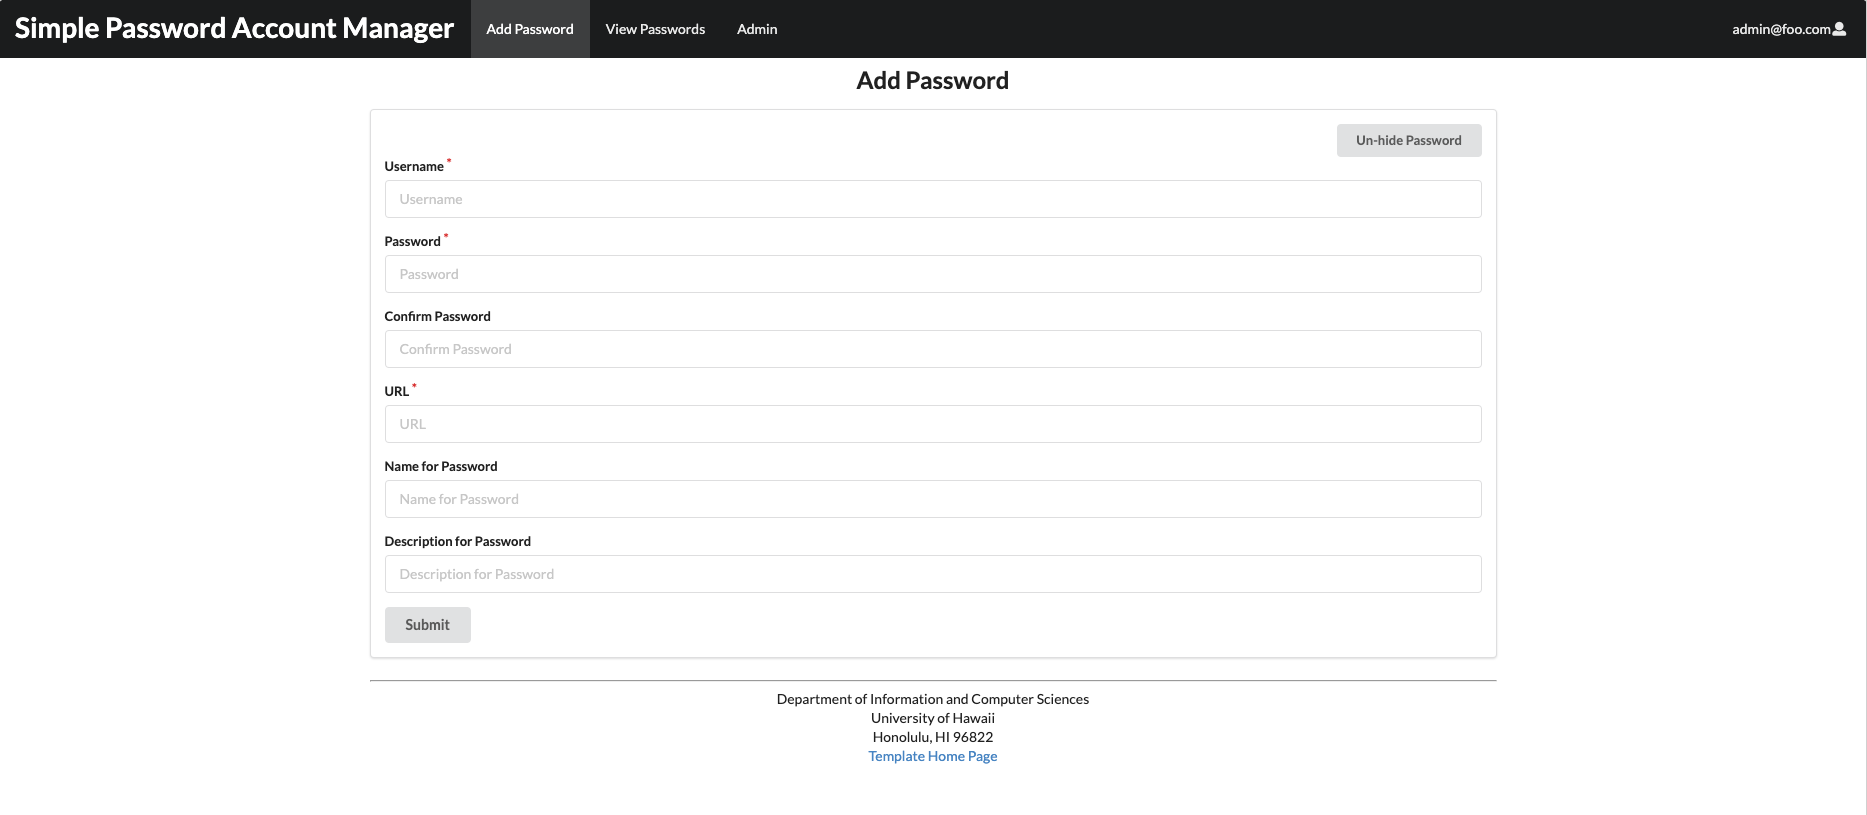
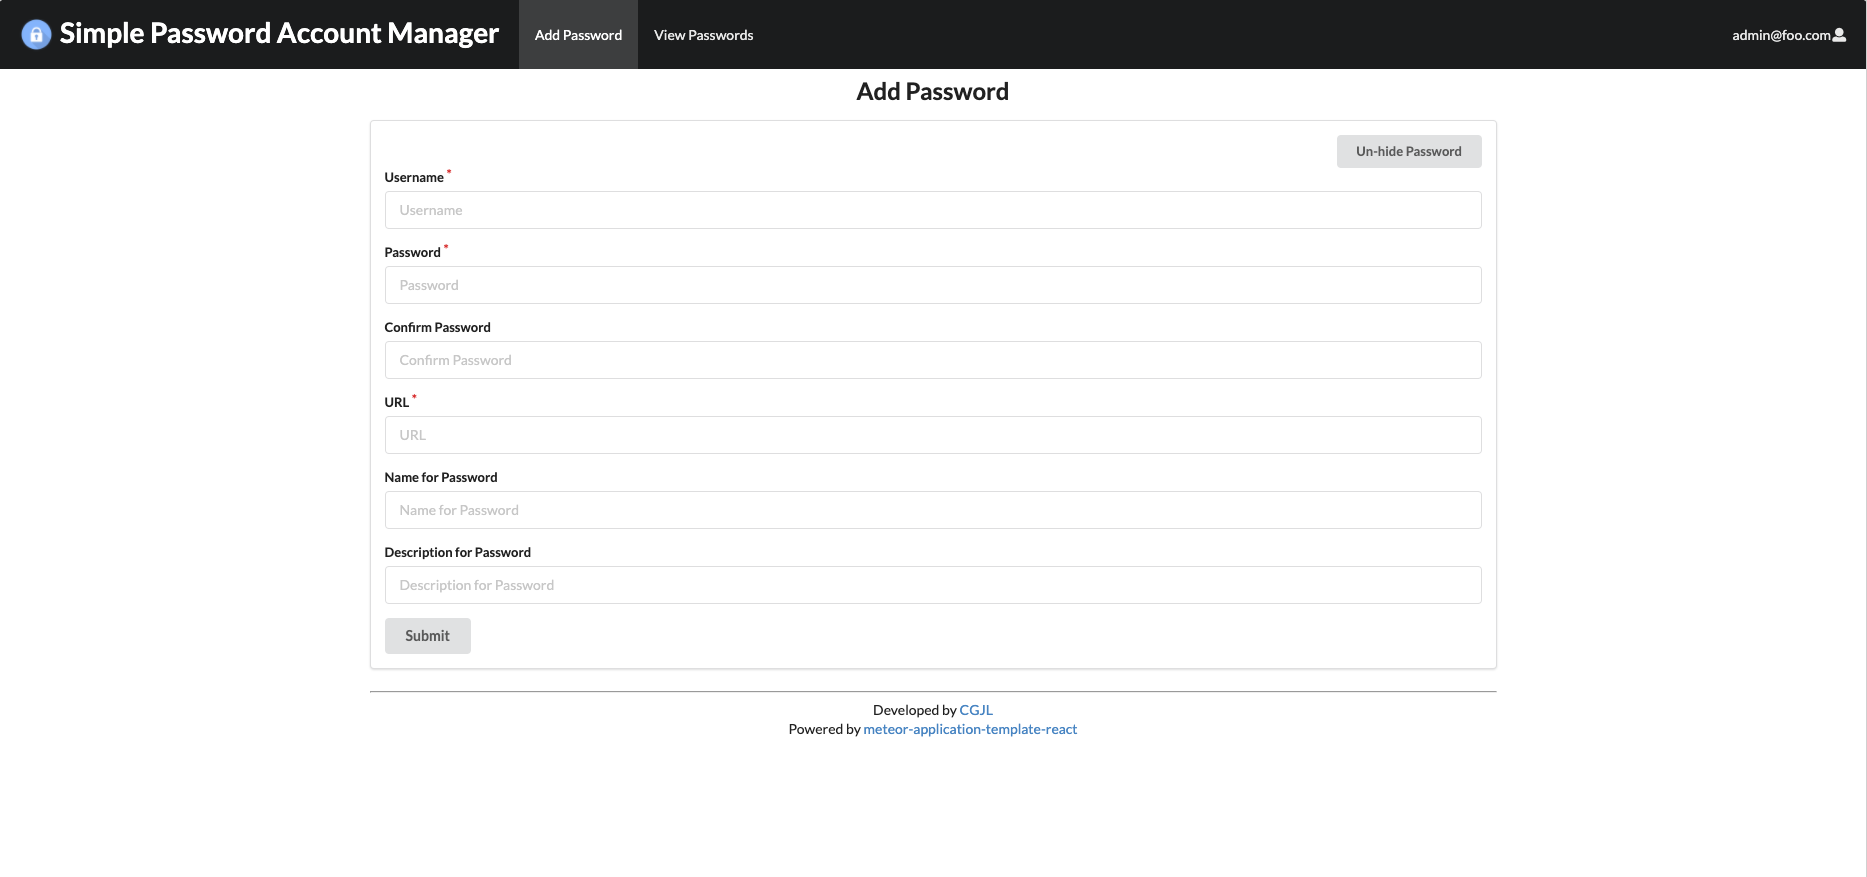
updated footer, navbar, landing, wiki pictures

diff --git a/app/imports/ui/pages/Landing.jsx b/app/imports/ui/pages/Landing.jsx
@@ -1,5 +1,8 @@
 import React from 'react';
-import { Grid, Image } from 'semantic-ui-react';
+import { Grid, Image, Button, Menu } from 'semantic-ui-react';
+import { withTracker } from 'meteor/react-meteor-data';
+import PropTypes from 'prop-types';
+import { withRouter, NavLink } from 'react-router-dom';
 
 /** A simple static component to render some text for the landing page. */
 class Landing extends React.Component {
@@ -8,12 +11,26 @@ class Landing extends React.Component {
       <Grid id='landing-page' verticalAlign='middle' textAlign='center' container>
 
         <Grid.Column width={4}>
-          <Image size='small' circular src="/images/meteor-logo.png"/>
+          <Image size='small' src="/images/spam-landing-lock.png"/>
         </Grid.Column>
 
-        <Grid.Column width={8}>
-          <h1>Welcome to this template</h1>
-          <p>Now get to work and modify this app!</p>
+        <Grid.Column width={10}>
+          <h1>Welcome to Simple Password Account Manager (SPAM)</h1>
+          <p>Store and track your passwords in one place.</p>
+        </Grid.Column>
+
+        <Grid.Column width={14}>
+          {
+            this.props.currentUser
+              ? ([
+                  <Button key='add' as={NavLink} activeClassName="" exact to="/add">Add Password</Button>,
+                  <Button key='view' as={NavLink} activeClassName="" exact to="/all-passwords">View Passwords</Button>
+                ])
+              : ([
+                  <Button key='login' as={NavLink} activeClassName="" exact to="/signin">Login</Button>,
+                  <Button key='register' as={NavLink} activeClassName="" exact to="/signup">Register</Button>
+                ])
+          }
         </Grid.Column>
 
       </Grid>
@@ -21,4 +38,13 @@ class Landing extends React.Component {
   }
 }
 
-export default Landing;
+Landing.propTypes = {
+  currentUser: PropTypes.string,
+};
+
+const LandingPage = withTracker(() => ({
+  currentUser: Meteor.user() ? Meteor.user().username : '',
+}))(Landing);
+
+export default withRouter(LandingPage);
+

diff --git a/app/imports/ui/components/NavBar.jsx b/app/imports/ui/components/NavBar.jsx
@@ -3,7 +3,7 @@ import PropTypes from 'prop-types';
 import { Meteor } from 'meteor/meteor';
 import { withTracker } from 'meteor/react-meteor-data';
 import { withRouter, NavLink } from 'react-router-dom';
-import { Menu, Dropdown, Header } from 'semantic-ui-react';
+import { Menu, Dropdown, Header, Image, Grid } from 'semantic-ui-react';
 import { Roles } from 'meteor/alanning:roles';
 
 /** The NavBar appears at the top of every page. Rendered by the App Layout component. */
@@ -13,7 +13,12 @@ class NavBar extends React.Component {
     return (
       <Menu style={menuStyle} attached="top" borderless inverted>
         <Menu.Item as={NavLink} activeClassName="" exact to="/">
-          <Header inverted as='h1'>Simple Password Account Manager</Header>
+          <table>
+            <tr>
+              <td><Image src="/images/spam-landing-lock.png" style={{ width: '2vw' }}/></td>
+              <td><Header inverted as='h1'>Simple Password Account Manager</Header></td>
+            </tr>
+          </table>
         </Menu.Item>
         {this.props.currentUser ? (
           [<Menu.Item as={NavLink} activeClassName="active" exact to="/add" key='add'>Add Password</Menu.Item>,

diff --git a/app/imports/ui/components/Footer.jsx b/app/imports/ui/components/Footer.jsx
@@ -8,10 +8,9 @@ class Footer extends React.Component {
       <footer>
         <div style={divStyle} className="ui center aligned container">
           <hr />
-              Department of Information and Computer Sciences <br />
-              University of Hawaii<br />
-              Honolulu, HI 96822 <br />
-          <a href="http://ics-software-engineering.github.io/meteor-application-template-react">Template Home Page</a>
+          Developed by <a href="https://github.com/CGJL/spam">CGJL</a>
+          <br/>
+          Powered by <a href="http://ics-software-engineering.github.io/meteor-application-template-react">meteor-application-template-react</a>
         </div>
       </footer>
     );
